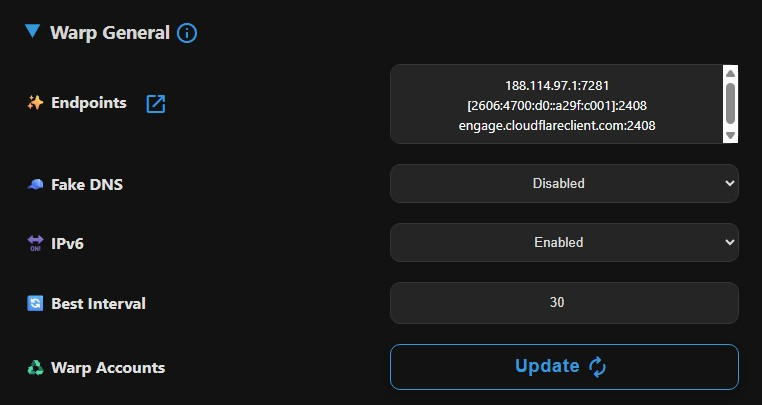
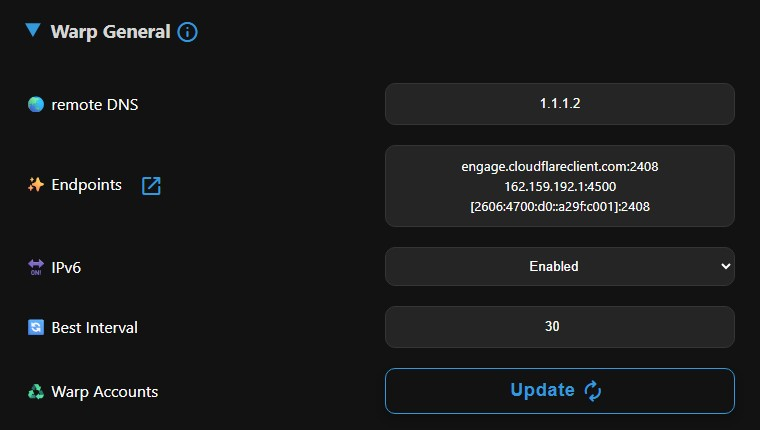
Added optional Warp remote DNS.

diff --git a/src/assets/panel/index.html b/src/assets/panel/index.html
@@ -25,7 +25,7 @@
             <details>
                 <summary>
                     <h3>Common
-                        <a href="https://bia-pain-bache.github.io/BPB-Worker-Panel/configuration/fragment/"
+                        <a href="https://bia-pain-bache.github.io/BPB-Worker-Panel/configuration/common/"
                             target="_blank" title="Help">
                             <span class="material-symbols-rounded">info</span>
                         </a>
@@ -316,6 +316,12 @@
                     </h3>
                 </summary>
                 <div class="section">
+                    <div class="form-control">
+                        <label for="warpRemoteDNS">🌏 remote DNS</label>
+                        <div>
+                            <input type="text" id="warpRemoteDNS" name="warpRemoteDNS" required>
+                        </div>
+                    </div>
                     <div class="form-control">
                         <label for="warpEndpoints">
                             ✨ Endpoints

diff --git a/src/assets/panel/script.js b/src/assets/panel/script.js
@@ -452,6 +452,7 @@ function validateSettings() {
         validateRemoteDNS(),
         validateSanctionDns(),
         validateLocalDNS(),
+        validateWarpDNS(),
         validateMultipleHostNames(),
         validateProxyIPs(),
         validateNAT64Prefixes(),
@@ -622,6 +623,18 @@ function validateSanctionDns() {
 
     if (!isValid) {
         alert(`⛔ Invalid IPs or Domains.\n⚠ ${host}`);
+        return false;
+    }
+
+    return true;
+}
+
+function validateWarpDNS() {
+    const dns = getElmValue("warpRemoteDNS");
+    const isValid = ipv4Regex.test(dns);
+
+    if (!isValid) {
+        alert(`⛔ Invalid Warp DNS.\n💡 Please fill in an IPv4 address (UDP DNS).\n\n⚠ ${dns}`);
         return false;
     }
 

diff --git a/src/cores/clash/dns.ts b/src/cores/clash/dns.ts
@@ -6,6 +6,7 @@ export async function buildDNS(isChain: boolean, isWarp: boolean, isPro: boolean
     const {
         localDNS,
         remoteDNS,
+        warpRemoteDNS,
         antiSanctionDNS,
         outProxyParams,
         dohHost,
@@ -20,7 +21,7 @@ export async function buildDNS(isChain: boolean, isWarp: boolean, isPro: boolean
         ? `💦 Warp ${isPro ? 'Pro ' : ''}- Best Ping 🚀`
         : isChain ? '💦 Best Ping 🚀' : '✅ Selector';
 
-    const finalRemoteDNS = `${isWarp ? '1.1.1.1' : remoteDNS}#${remoteDnsDetour}`;
+    const finalRemoteDNS = `${isWarp ? warpRemoteDNS : remoteDNS}#${remoteDnsDetour}`;
     const hosts: DnsHosts = {};
     let nameserverPolicy: Record<string, string> = {};
 

diff --git a/src/common/handlers.ts b/src/common/handlers.ts
@@ -279,6 +279,7 @@ async function getWarpConfigs(request: Request, env: Env): Promise<Response> {
     const { warpIPv6, publicKey, privateKey } = warpAccounts[0];
     const {
         warpEndpoints,
+        warpRemoteDNS,
         amneziaNoiseCount,
         amneziaNoiseSizeMin,
         amneziaNoiseSizeMax
@@ -293,7 +294,7 @@ async function getWarpConfigs(request: Request, env: Env): Promise<Response> {
                 `[Interface]
                 PrivateKey = ${privateKey}
                 Address = 172.16.0.2/32, ${warpIPv6}
-                DNS = 1.1.1.1, 1.0.0.1
+                DNS = ${warpRemoteDNS}
                 MTU = 1280
                 ${isPro ?
                     `Jc = ${amneziaNoiseCount}

diff --git a/src/cores/sing-box/dns.ts b/src/cores/sing-box/dns.ts
@@ -6,6 +6,7 @@ export async function buildDNS(isWarp: boolean, isChain: boolean): Promise<Dns> 
     const {
         localDNS,
         remoteDNS,
+        warpRemoteDNS,
         antiSanctionDNS,
         outProxyParams,
         dohHost,
@@ -21,7 +22,7 @@ export async function buildDNS(isWarp: boolean, isChain: boolean): Promise<Dns> 
     const servers: DnsServer[] = [
         {
             type: isWarp ? "udp" : protocol,
-            server: isWarp ? "1.1.1.1" : dohHost.host,
+            server: isWarp ? warpRemoteDNS : dohHost.host,
             detour: isWarp ? "💦 Warp - Best Ping 🚀" : isChain ? "💦 Best Ping 🚀" : "✅ Selector",
             tag: "dns-remote"
         }

diff --git a/src/kv.ts b/src/kv.ts
@@ -131,6 +131,7 @@ export async function updateDataset(request: Request, env: Env): Promise<Setting
         customBypassRules: populateField('customBypassRules'),
         customBlockRules: populateField('customBlockRules'),
         customBypassSanctionRules: populateField('customBypassSanctionRules'),
+        warpRemoteDNS: populateField('warpRemoteDNS'),
         warpEndpoints: populateField('warpEndpoints'),
         warpEnableIPv6: populateField('warpEnableIPv6'),
         bestWarpInterval: populateField('bestWarpInterval'),

diff --git a/src/cores/xray/dns.ts b/src/cores/xray/dns.ts
@@ -13,6 +13,7 @@ export async function buildDNS(
     const {
         localDNS,
         remoteDNS,
+        warpRemoteDNS,
         antiSanctionDNS,
         dohHost,
         warpEnableIPv6,
@@ -39,7 +40,7 @@ export async function buildDNS(
     }
 
     let skipFallback = true;
-    let finalRemoteDNS = isWarp ? "1.1.1.1" : remoteDNS;
+    let finalRemoteDNS = isWarp ? warpRemoteDNS : remoteDNS;
 
     if (isWorkerLess) {
         finalRemoteDNS = `https://${customDns}/dns-query`;

diff --git a/src/types/global.d.ts b/src/types/global.d.ts
@@ -118,6 +118,7 @@ declare global {
         customBypassRules: string[];
         customBlockRules: string[];
         customBypassSanctionRules: string[];
+        warpRemoteDNS: string;
         warpEndpoints: string[];
         warpEnableIPv6: boolean;
         bestWarpInterval: number;

diff --git a/src/common/init.ts b/src/common/init.ts
@@ -73,6 +73,7 @@ globalThis.settings = {
     customBypassRules: [],
     customBlockRules: [],
     customBypassSanctionRules: [],
+    warpRemoteDNS: "1.1.1.1",
     warpEndpoints: ["engage.cloudflareclient.com:2408"],
     warpEnableIPv6: true,
     bestWarpInterval: 30,

diff --git a/docs/fa/docs/configuration/warp.md b/docs/fa/docs/configuration/warp.md
@@ -4,6 +4,13 @@
 
 ![Warp General settings](../images/warp-settings.jpg)
 
+## Remote DNS
+
+این DNS برای سازگاری بیشتر و عملکرد بهتر باید از نوع IPv4 باشه و اکیدا توصیه میکنم اگر قصد تعویضش رو دارید از DNS های خود کلادفلر استفاده کنید چون با Warp کلادفلر سازگاری و عملکرد بهتری دارن، برای مثال:
+
+- 1.1.1.2، 1.0.0.2 (DNS امنیتی Cloudflare)
+- 1.1.1.3، 1.0.0.3 (DNS بزرگسالان Cloudflare)
+
 ## Endpoints - Scan Endpoint
 
 Endpoint ها برای Warp مثل IP تمیز برای VLESS و Trojan عمل میکنن. پنل یه اسکنر ارائه میده که میتونید توی Termux (اندروید)، Windows، macOS یا Linux اجرا کنید و نتایج رو اینجا وارد کنید. توجه کنید که نتایج 100% قابل اعتماد نیستن، پس تست کردن لازمه. در ضمن حواستون باشه که قبل از اسکن تمام برنامههای فیلترشکن ر. ببندید، اگر از v2rayN استفاده میکنید از نوارابزار پایین باید Exit کنید، قطع کردن پروکسی کافی نیست.

diff --git a/docs/en/docs/configuration/warp.md b/docs/en/docs/configuration/warp.md
@@ -4,6 +4,13 @@ These settings apply to both **Warp** and **Warp Pro** subscriptions.
 
 ![Warp General settings](../images/warp-settings.jpg)
 
+## Remote DNS
+
+Warp remote DNS can be only of type IPv4 for performance and compatibility. The default DNS is Cloudflare public DNS which is a perfect candidate. It's highly recommended to use Cloudflare DNS servers if you insist on changing it, which have most compatibility and efficiency when used with Cloudflare Warp, like:
+
+- 1.1.1.2, 1.0.0.2 (Cloudflare security DNS)
+- 1.1.1.3, 1.0.0.3 (Cloudflare adult DNS)
+
 ## Endpoints - Scanner
 
 Endpoints for Warp function similarly to Clean IPs for VLESS and Trojan. The panel provides a scanner that you can run on Termux (Android), Windows, macOS or Linux and input the results here. Note that the results are not 100% reliable, so testing is necessary. Please note that you have to exit any proxy app before testing, if you use v2rayN, you should completely exit it from taskbar, clearing proxy is not enough.

diff --git a/RELEASE.md b/RELEASE.md
@@ -3,6 +3,7 @@
 - Refactore the whole project using TypeScript.
 - Added VMess support to Chain Proxies. All main protocols are now supported: **VLESS**, **VMess**, **Trojan**, **Shadowsocks**, **Socks** and **Http**.
 - Improved Chain Proxy performance.
+- Added Warp Remote DNS (IPv4 only). It's highly recommended to use Cloudflare DNS servers for Warp if you wanna change it.
 - Made **TCP Fast Open** optional due to some devices and ISPs compatibility. Please note that you have to enable TCP Fast Open on linux manually #1097
 - Added `maxSplit` to Fragment settings, please use it only if you understand this feature.
 - Added `applyTo` to Xray UDP noises in Warp Pro settings.
